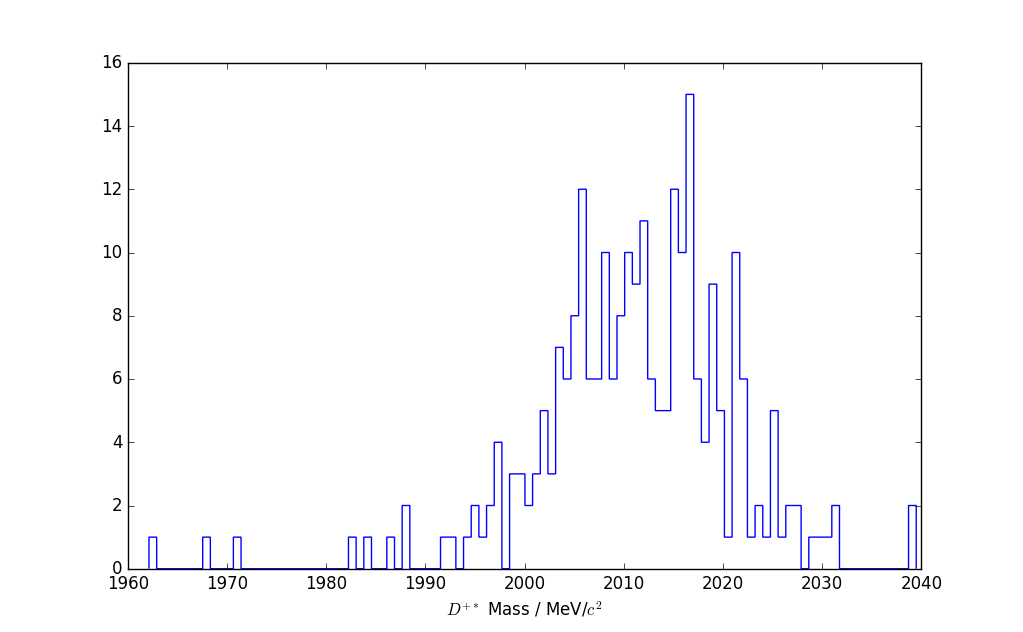
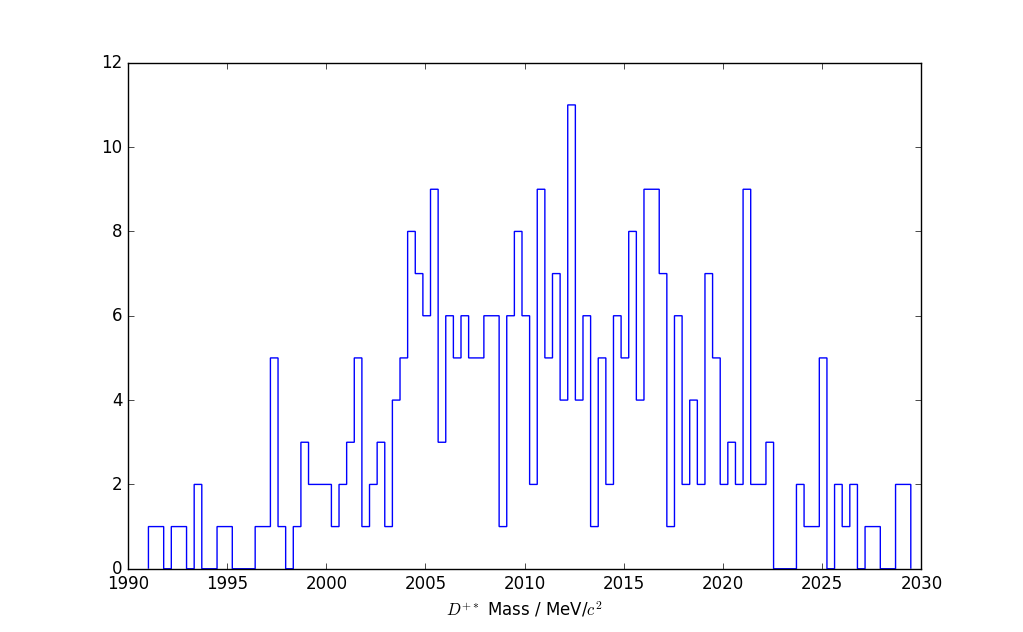
Theta cut & width change

diff --git a/Code/Cuts.py b/Code/Cuts.py
@@ -39,21 +39,6 @@ savefig('dm-decayTime-correlation')
 pl.close()
 
 
-filtered, rejected = cut(filtered, rejected, lambda d: 2500 <= d.pD0_t)
-filtered, rejected = cut(filtered, rejected, lambda d: 2500 <= d.pDstar_t)
-filtered, rejected = cut(filtered, rejected, lambda d: 300 <= d.pPslow_t)
-filtered, rejected = cut(filtered, rejected, lambda d: 750 <= d.pk_t)
-filtered, rejected = cut(filtered, rejected, lambda d: 750 <= d.pp_t)
-
-filtered, rejected = cut(filtered, rejected, lambda d: -2 <= d.d0IP_log <= 0.8)
-filtered, rejected = cut(filtered, rejected, lambda d: 0 <= d.kIP_log <= 3)
-filtered, rejected = cut(filtered, rejected, lambda d: 0 <= d.pIP_log <= 3)
-filtered, rejected = cut(filtered, rejected, lambda d: 0 <= d.psIP_log <= 2)
-
-filtered, rejected = cut(filtered, rejected, lambda d:  5 <= d.s_z <= 120)
-filtered, rejected = cut(filtered, rejected, lambda d:  0.95 >= d.costheta)
-
-
 plot_compare(filtered, rejected, 'decayTime', 'decayTime', (0,10e-12))
 plot_compare(filtered, rejected, 'pD0_t', 'pd0-t')
 plot_compare(filtered, rejected, 'pPslow', 'pslow')
@@ -68,10 +53,25 @@ plot_compare(filtered, rejected, 'psIP_log', 'ps-impact-parameter')
 plot_compare(filtered, rejected, 's_z', 's_z', (-200, 200))
 plot_compare(filtered, rejected, 'costheta', 'costheta', (.6,1))
 
+filtered, rejected = cut(filtered, rejected, lambda d: 2500 <= d.pD0_t)
+filtered, rejected = cut(filtered, rejected, lambda d: 2500 <= d.pDstar_t)
+filtered, rejected = cut(filtered, rejected, lambda d: 300 <= d.pPslow_t)
+filtered, rejected = cut(filtered, rejected, lambda d: 750 <= d.pk_t)
+filtered, rejected = cut(filtered, rejected, lambda d: 750 <= d.pp_t)
+
+filtered, rejected = cut(filtered, rejected, lambda d: -2 <= d.d0IP_log <= 0.8)
+filtered, rejected = cut(filtered, rejected, lambda d: 0 <= d.kIP_log <= 3)
+filtered, rejected = cut(filtered, rejected, lambda d: 0 <= d.pIP_log <= 3)
+filtered, rejected = cut(filtered, rejected, lambda d: 0 <= d.psIP_log <= 2)
+
+filtered, rejected = cut(filtered, rejected, lambda d:  5 <= d.s_z <= 120)
+filtered, rejected = cut(filtered, rejected, lambda d:  0.9 <= d.costheta)
+
+
 
 # remove width
 d0_c, dstar_c = 1865., 2010.
-width = 50.
+width = 20.
 filtered = [event for event in filtered if (d0_c-width) <= mass_toMeV(event.reconstructedD0Mass) <= (d0_c+width) and (dstar_c-width) <= mass_toMeV(event.reconstructedDstarMass) <= (dstar_c+width)]
 
 

diff --git a/Code/Lifetime.py b/Code/Lifetime.py
@@ -183,7 +183,7 @@ class CandidateEvent(object):
 
 	@lazy_property.LazyProperty
 	def costheta(self):
-		p, r = momentum_toSI(self.pD0_t), (self.d0Decay-self.dstarDecay)*1e-3
+		p, r = momentum_toSI(self.pDstar_t), (self.d0Decay-self.interaction)*1e-3
 		return dot(p, r) / (magnitude(p) * magnitude(r))
 
 
@@ -268,7 +268,7 @@ def plotData(data):
 	pl.close()
 
 	# decay time curve
-	hist, bin_edges = np.histogram(times, bins=100, range=(0., 10.))
+	hist, bin_edges = np.histogram(times, bins=50, range=(0., 3.))
 	num_events = np.sum(hist)
 	print(num_events, ' events')
 	time = bin_edges[1:]
